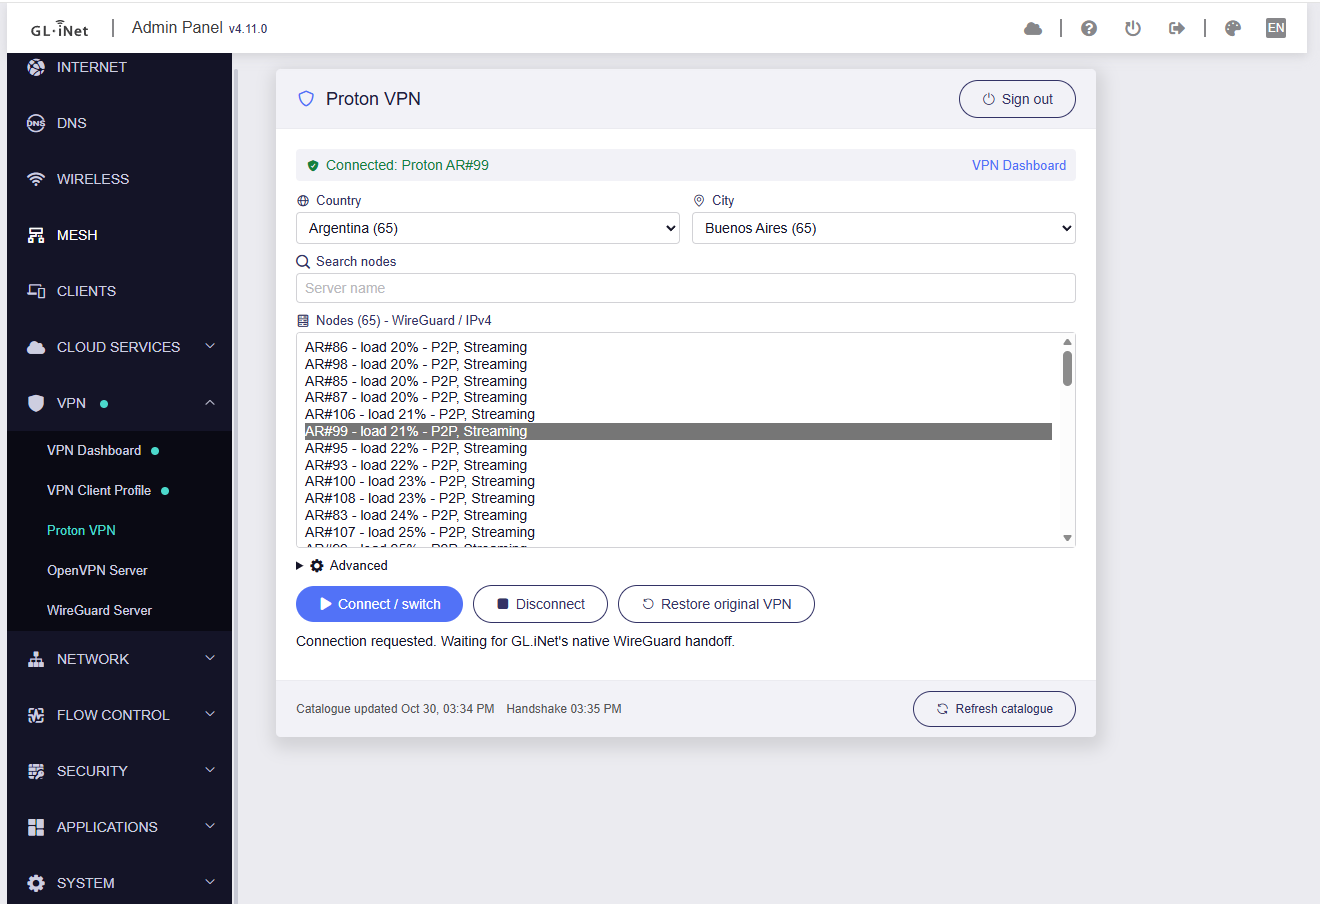
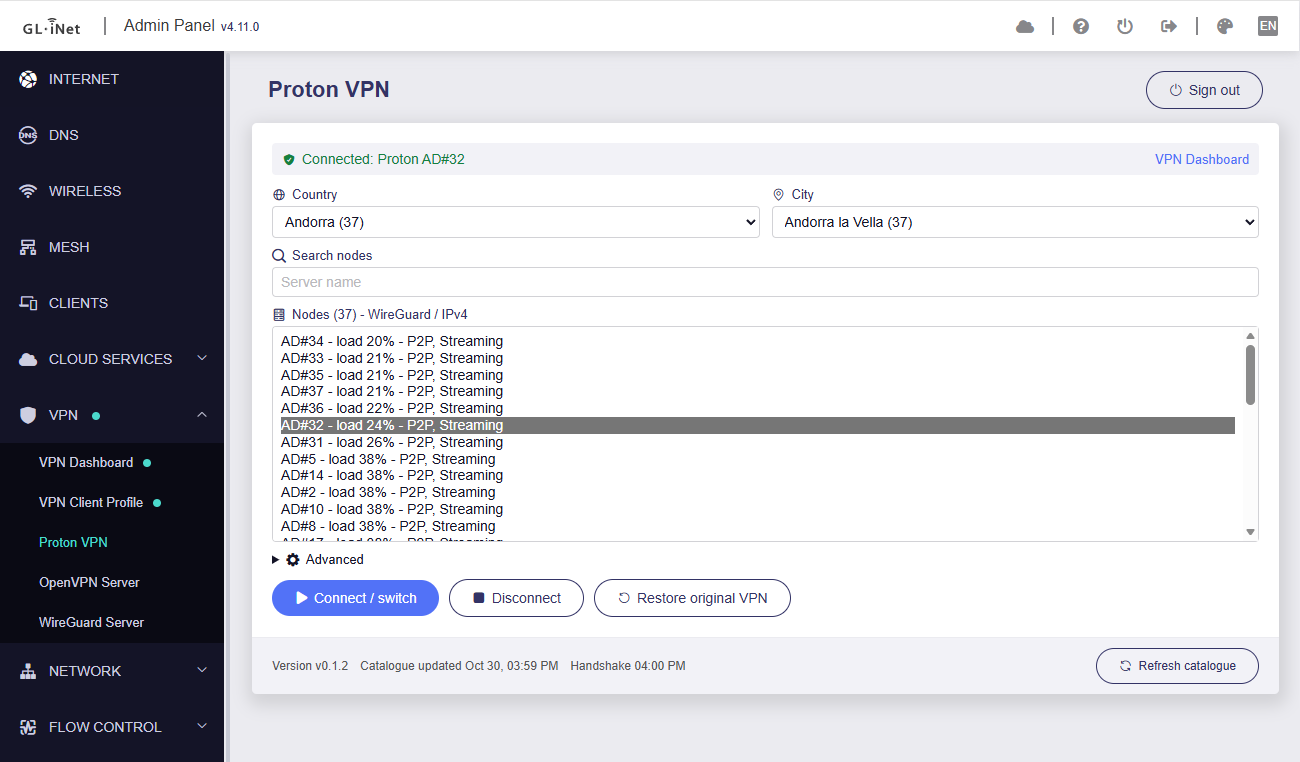
Show a loading overlay while the page is busy; update screenshot
Copilot-Session: 2a178709-227d-451c-8cdd-df47138fea55

diff --git a/ui/proton-vpn.js b/ui/proton-vpn.js
@@ -272,12 +272,18 @@
                     + "#proton-vpn-view .proton-card>.footer{height:auto;min-height:50px;padding:10px 20px}"
                     + "#proton-vpn-view .proton-footer{width:100%;justify-content:space-between;font-size:12px}#proton-vpn-view .proton-meta{display:flex;gap:12px;flex-wrap:wrap;color:var(--text-subtitle,#555557)}"
                     + "#proton-vpn-view .proton-warning{padding:8px;background:#fff3cd;color:#594300;font-size:13px}#proton-vpn-view .proton-error{color:#b00020}"
-                    + "#proton-vpn-view .proton-connected{color:#15803d}"
+                    + "#proton-vpn-view .proton-connected{color:#15803d}#proton-vpn-view .proton-card{position:relative}"
+                    + "#proton-vpn-view .proton-overlay{position:absolute;inset:0;z-index:10;display:flex;flex-direction:column;align-items:center;justify-content:center;gap:12px;border-radius:inherit;background:rgba(255,255,255,.8);font-size:16px;font-weight:500;color:var(--text-title,#1f1f3d);animation:proton-fade .2s .4s both}"
+                    + "#proton-vpn-view .proton-overlay i{font-size:32px;color:var(--primary,#5272f7)}@keyframes proton-fade{from{opacity:0}to{opacity:1}}"
                     + "@media(max-width:540px){#proton-vpn-view .proton-location-row{grid-template-columns:1fr;gap:0}}"),
                 h("gl-title", { attrs: { title: "Proton VPN" } }, [
                     this.info.authenticated ? button("Sign out", this.logout, this.updating, "logout") : null
                 ]),
                 h("gl-card", { class: "proton-card" }, [
+                this.busy || this.updating ? h("div", { class: "proton-overlay", attrs: { role: "status", "data-testid": "overlay" } }, [
+                    h("i", { class: "el-icon-loading" }),
+                    this.updating ? "Refreshing the server list from Proton..." : this.notice || "Working..."
+                ]) : null,
                 account,
                 h("div", { class: "proton-status" }, [
                     h("span", { class: { "proton-connected": connected }, attrs: { "data-testid": "connection-status",
@@ -327,8 +333,6 @@
                         this.updating || !this.info.managed || !this.info.connection || !this.info.connection.enabled, "disconnect"),
                     button("Restore original VPN", this.restore, this.updating || !this.info.restore_available, "restore")
                 ]),
-                this.busy ? h("p", { attrs: { "data-testid": "busy" } },
-                    "Working...") : null,
                 this.notice ? h("p", { attrs: { role: "status" } }, this.notice) : null,
                 this.error ? h("p", { class: "proton-error", attrs: { role: "alert", "data-testid": "error" } }, this.error) : null,
                 h("footer", { slot: "footer", class: "proton-footer" }, [
@@ -340,8 +344,6 @@
                             })) : null,
                         this.info.last_handshake ? h("span", "Handshake " + new Date(this.info.last_handshake * 1000)
                             .toLocaleTimeString([], { hour: "2-digit", minute: "2-digit" })) : null,
-                        this.updating ? h("span", { attrs: { role: "status", "data-testid": "catalog-refresh" } },
-                            "Refreshing...") : null
                     ]),
                     this.info.authenticated ? button("Refresh catalogue", () => self.refreshCatalog(true),
                         this.updating, "countries") : null,
